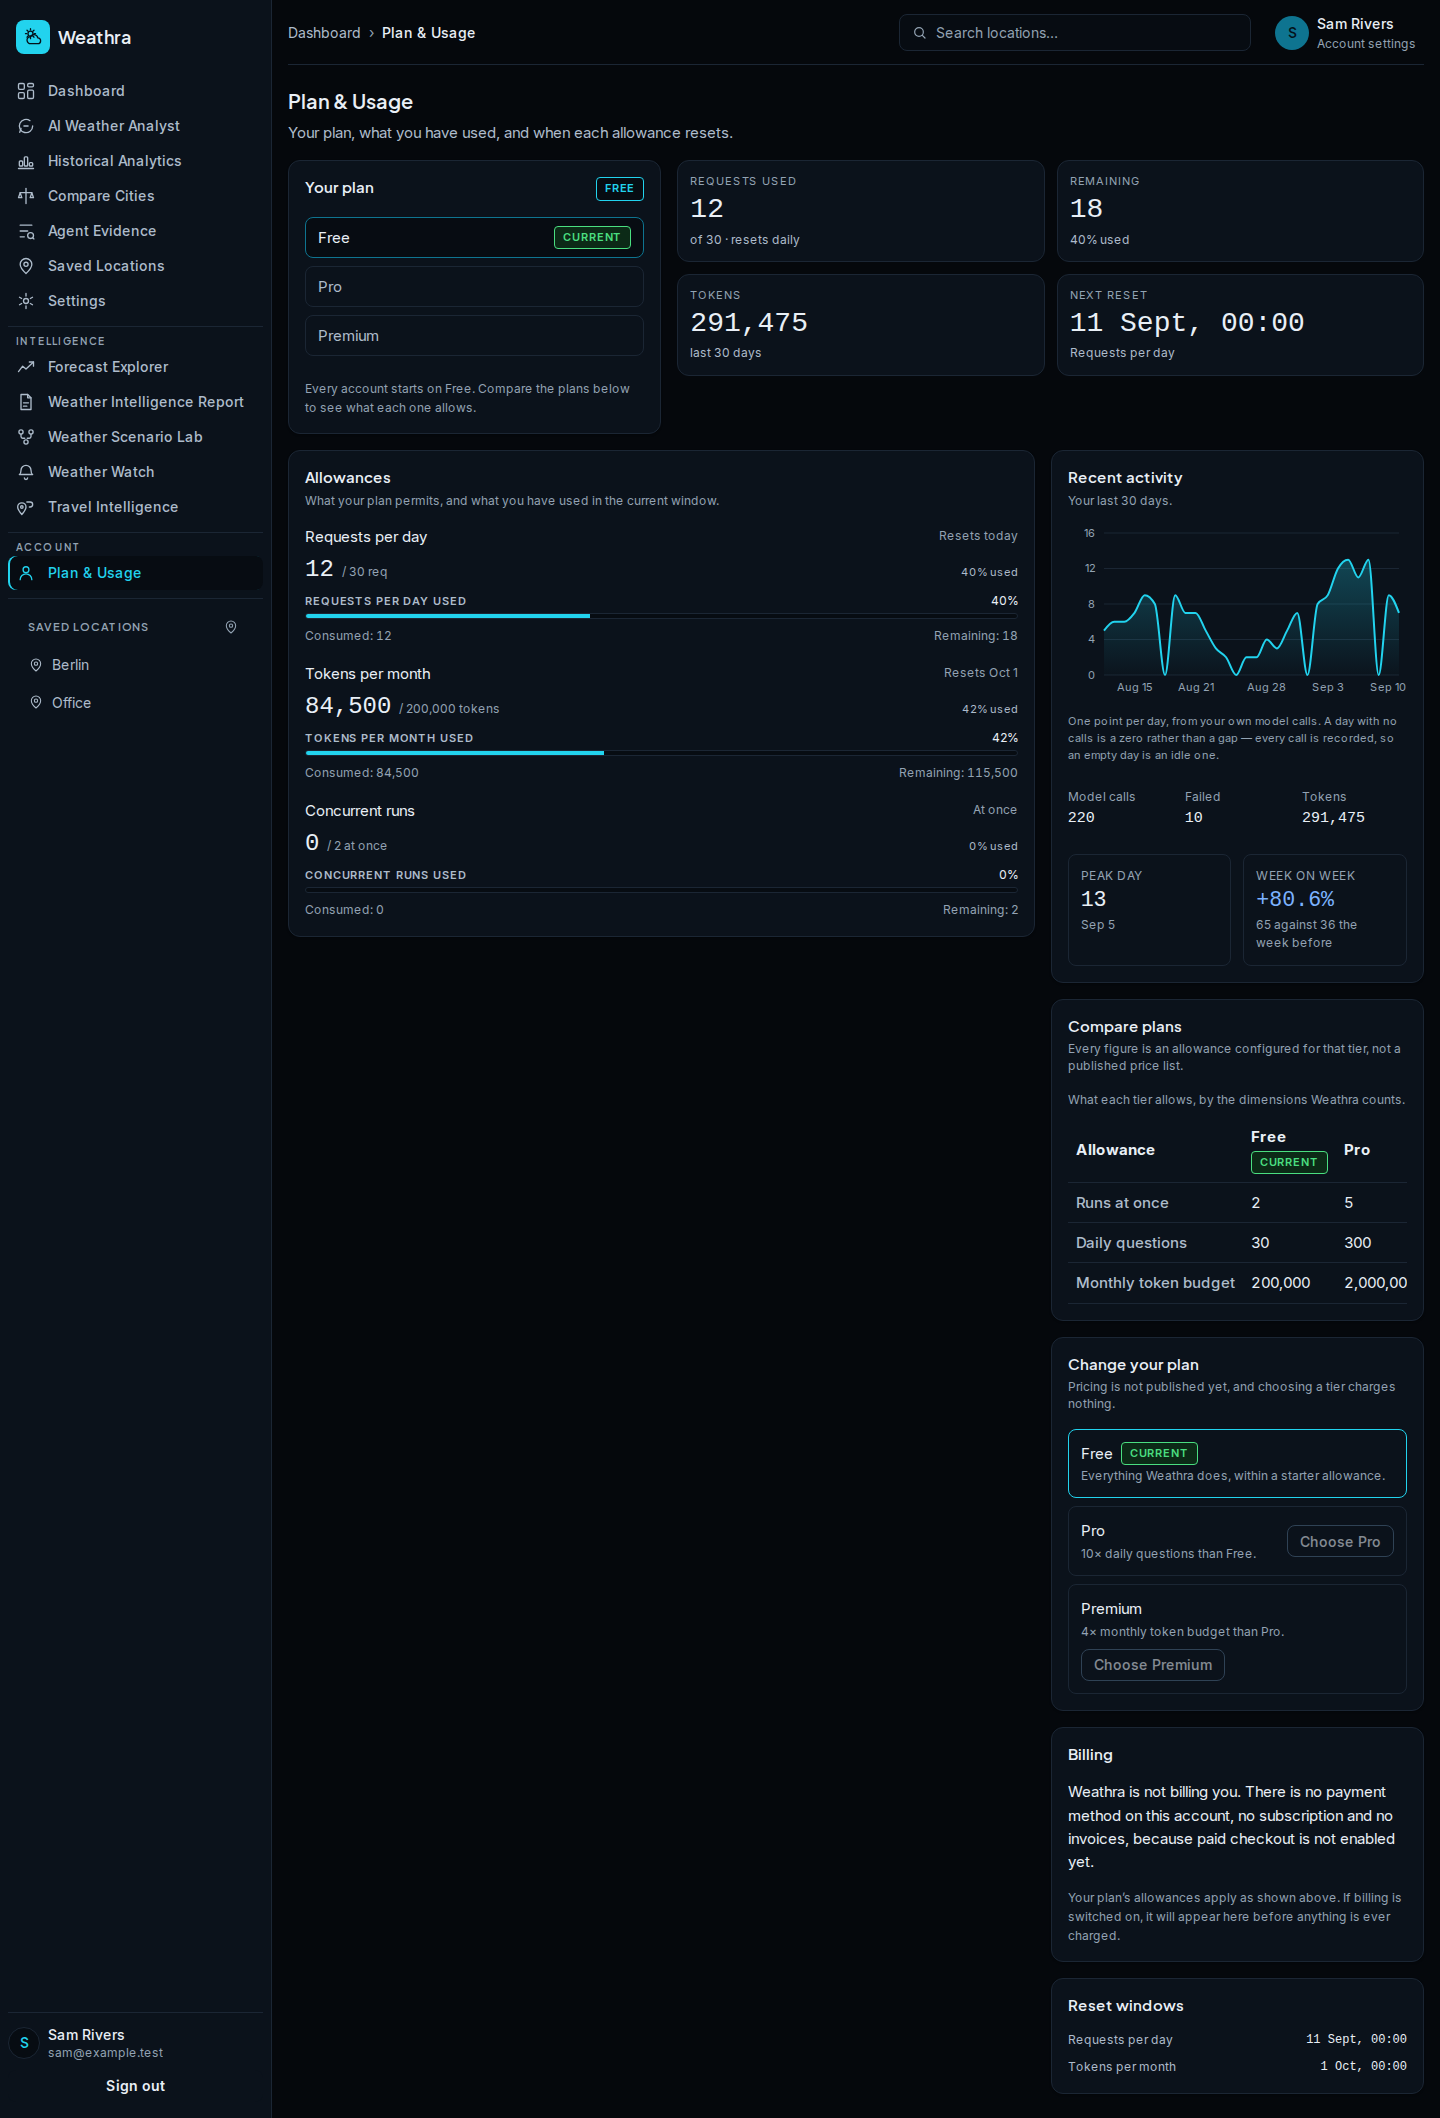
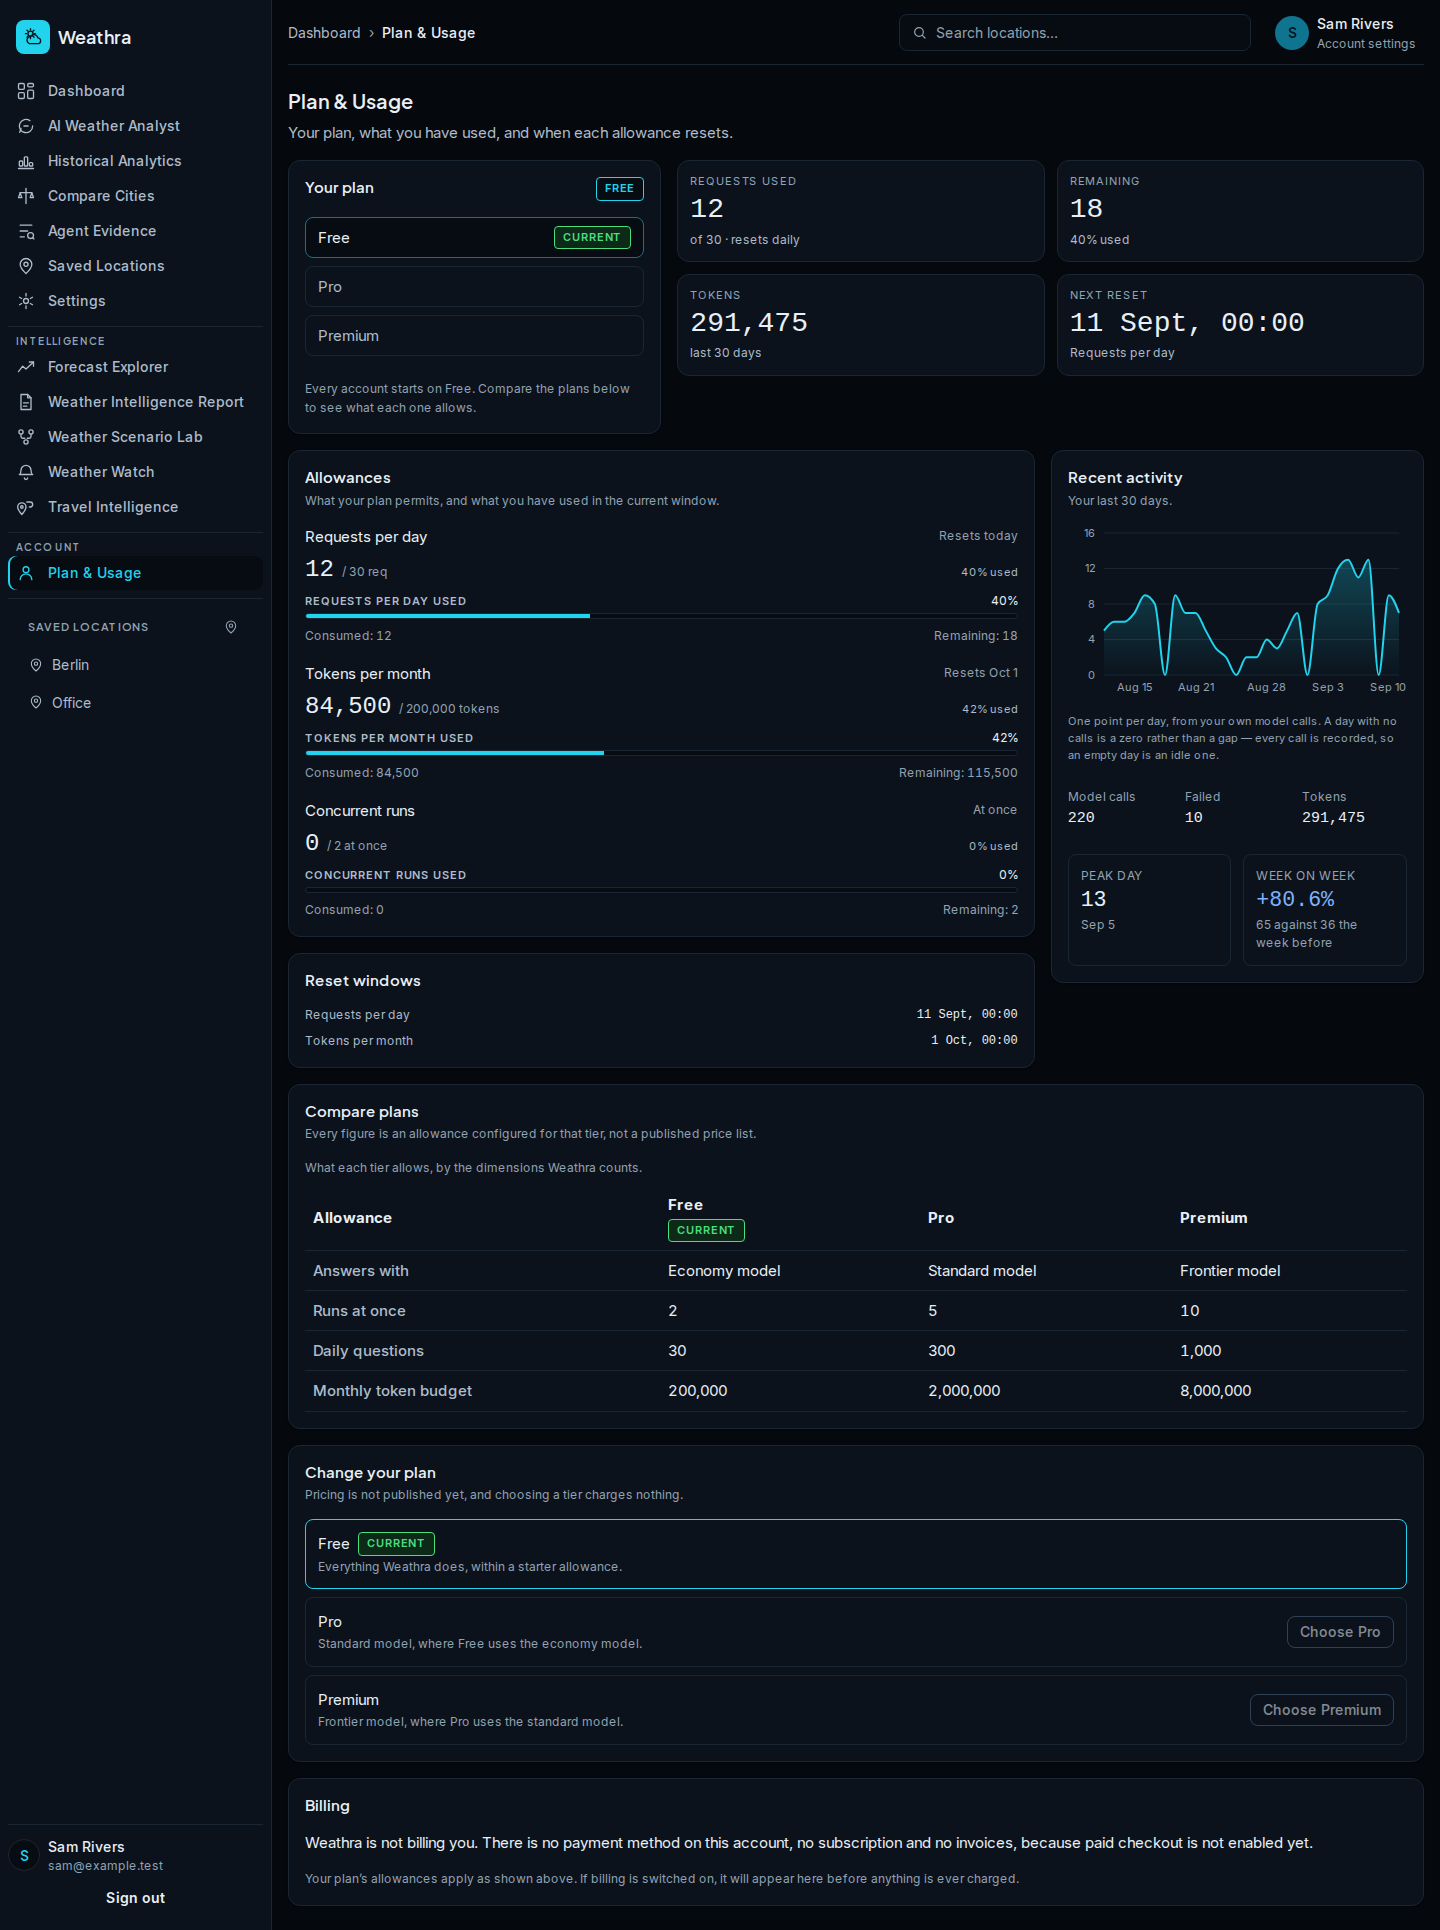
feat(plan): compare the tiers on the thing a bigger number cannot say
`/plans` now carries the capability tier and display name of the model each plan's synthesis policy
would actually resolve — plan → policy → first enabled catalog candidate, three rows deep in the
database, resolved by the backend rather than asserted by a screen. Synthesis rather than routing,
because synthesis is the call that writes the answer a person reads.

That is the difference between Free, Pro and Premium that allowances cannot express. The comparison
leads with it — "Answers with: Economy model / Standard model / Frontier model" — and each tier's
value line says it in words: "Standard model, where Free uses the economy model." Both are computed
from the rows, so they stay true when a policy is re-pointed.

Nothing is claimed that a row does not hold: a plan mapping no synthesis policy, or whose policy
names no *enabled* candidate, reports null and the row is omitted rather than guessed. A disabled
catalog entry is unavailable everywhere (`specs/model-catalog`), so naming it would describe a model
no call can reach.

Also: the reset windows moved under the allowances they describe. They sat in the right rail beneath
the activity chart, leaving roughly seven hundred pixels of empty left column at 1440 — visible in
the capture, invisible to every test.

diff --git a/weathra/frontend/components/plan/plan-usage.tsx b/weathra/frontend/components/plan/plan-usage.tsx
@@ -271,6 +271,29 @@ function Ready({ usage }: { usage: UsageResponse }): ReactNode {
           </CardBody>
         </Card>
 
+        {/*
+          Under the allowances it describes, in the column that had the room. It sat in the right
+          rail beneath the activity chart, which left roughly seven hundred pixels of empty left
+          column at 1440 — the capture is what showed it.
+        */}
+        <Card aria-labelledby="resets">
+          <CardHeader title="Reset windows" titleId="resets" />
+          <CardBody>
+            {resets.length === 0 ? (
+              <p>Nothing on your plan is counted over a window.</p>
+            ) : (
+              <ul className={styles.resets}>
+                {resets.map((reading) => (
+                  <li key={reading.dimension}>
+                    <span>{reading.label}</span>
+                    <span className={styles.resetAt}>{instant(reading.resetsAt)}</span>
+                  </li>
+                ))}
+              </ul>
+            )}
+          </CardBody>
+        </Card>
+
         <div className={styles.side}>
           <Card aria-labelledby="recent">
             <CardHeader
@@ -330,24 +353,6 @@ function Ready({ usage }: { usage: UsageResponse }): ReactNode {
                   </span>
                 </div>
               </div>
-            </CardBody>
-          </Card>
-
-          <Card aria-labelledby="resets">
-            <CardHeader title="Reset windows" titleId="resets" />
-            <CardBody>
-              {resets.length === 0 ? (
-                <p>Nothing on your plan is counted over a window.</p>
-              ) : (
-                <ul className={styles.resets}>
-                  {resets.map((reading) => (
-                    <li key={reading.dimension}>
-                      <span>{reading.label}</span>
-                      <span className={styles.resetAt}>{instant(reading.resetsAt)}</span>
-                    </li>
-                  ))}
-                </ul>
-              )}
             </CardBody>
           </Card>
         </div>

diff --git a/weathra/frontend/lib/plan/commerce.ts b/weathra/frontend/lib/plan/commerce.ts
@@ -89,6 +89,27 @@ export function pricingPublished(): boolean {
   return false;
 }
 
+/** What a capability tier is called on screen. The backend's own vocabulary, said for a reader. */
+const TIER_NAMES: Readonly<Record<string, string>> = {
+  economy: "Economy model",
+  standard: "Standard model",
+  frontier: "Frontier model",
+};
+
+/**
+ * The class of model a tier answers with, or null where the plan maps no synthesis policy.
+ *
+ * This is the difference between the tiers that is *not* a number, and until `/plans` carried it a
+ * comparison could only say "bigger allowances". It is three rows deep in the database — plan →
+ * policy → catalog entry — and the backend resolves it; nothing here asserts which model a plan
+ * gets.
+ */
+export function modelTierLabel(plan: PlanOfferView): string | null {
+  const tier = plan.model_tier;
+  if (!tier) return null;
+  return TIER_NAMES[tier] ?? `${tier.charAt(0).toUpperCase()}${tier.slice(1)} model`;
+}
+
 /**
  * A tier's one-line value proposition, **derived from its allowances** rather than written here.
  *
@@ -121,6 +142,14 @@ export function valueProposition(
     })
     .filter((entry): entry is { dimension: string; factor: number } => entry !== null)
     .sort((left, right) => right.factor - left.factor);
+
+  // The model comes first when it actually changes: which model answers is a bigger difference to a
+  // person than how many times they may ask, and it is the one a bigger number cannot express.
+  const tier = modelTierLabel(plan);
+  const beneath = modelTierLabel(below);
+  if (tier && beneath && tier !== beneath) {
+    return `${tier}, where ${below.display_name} uses the ${beneath.toLowerCase()}.`;
+  }
 
   const best = gains[0];
   if (!best) return `More headroom than ${below.display_name}.`;

diff --git a/weathra/frontend/components/plan/plan-usage.test.tsx b/weathra/frontend/components/plan/plan-usage.test.tsx
@@ -64,18 +64,21 @@ const TIERS = {
   plans: [
     {
       plan_code: "free",
+      model_tier: "economy",
       display_name: "Free",
       rank: 1,
       allowances: [{ dimension: "requests_per_day", window: "day", allowance: 30 }],
     },
     {
       plan_code: "pro",
+      model_tier: "standard",
       display_name: "Pro",
       rank: 2,
       allowances: [{ dimension: "requests_per_day", window: "day", allowance: 300 }],
     },
     {
       plan_code: "premium",
+      model_tier: "frontier",
       display_name: "Premium",
       rank: 3,
       allowances: [{ dimension: "requests_per_day", window: "day", allowance: 1000 }],
@@ -288,6 +291,10 @@ describe("comparing tiers, changing plan, and what billing may claim", () => {
     // Every column is a configured tier and every cell an allowance, so nothing here is a claim
     // about a capability no row supports.
     expect(within(table).getByText("Daily questions")).toBeInTheDocument();
+    // The difference a bigger number cannot express: which class of model answers.
+    expect(within(table).getByText("Answers with")).toBeInTheDocument();
+    expect(within(table).getByText("Economy model")).toBeInTheDocument();
+    expect(within(table).getByText("Frontier model")).toBeInTheDocument();
     expect(within(table).getByText("30")).toBeInTheDocument();
     expect(within(table).getByText("300")).toBeInTheDocument();
     expect(within(table).getByText("1,000")).toBeInTheDocument();

diff --git a/weathra/frontend/components/plan/comparison.tsx b/weathra/frontend/components/plan/comparison.tsx
@@ -30,6 +30,7 @@ import type { PlanAllowanceView, PlanOfferView, PlansResponse } from "@/lib/api/
 import {
   allowanceLabel,
   checkoutFor,
+  modelTierLabel,
   planActionLabel,
   pricingPublished,
   valueProposition,
@@ -101,6 +102,19 @@ export function PlanComparison({ currentPlan }: { readonly currentPlan: string |
                 </tr>
               </thead>
               <tbody>
+                {/*
+                  The row that is not a number. Which model answers is the difference between the
+                  tiers a bigger allowance cannot express, and it is three rows deep in the database
+                  — plan → policy → catalog entry — resolved by `/plans` rather than asserted here.
+                */}
+                {offered.some((plan) => plan.model_tier) ? (
+                  <tr>
+                    <th scope="row">Answers with</th>
+                    {offered.map((plan) => (
+                      <td key={plan.plan_code}>{modelTierLabel(plan) ?? "—"}</td>
+                    ))}
+                  </tr>
+                ) : null}
                 {dimensions.map((dimension) => {
                   const sample = offered
                     .flatMap((plan) => plan.allowances ?? [])

diff --git a/weathra/frontend/components/plan/plan.module.css b/weathra/frontend/components/plan/plan.module.css
@@ -160,11 +160,22 @@
 
 /* ------------------------------------------------------------- the two columns */
 
+/*
+ * Two tracks, and the left one now holds two cards stacked. `grid-auto-flow: row` with the side
+ * rail spanning both rows keeps the allowances and the reset windows in the wide column and the
+ * activity panel beside them, rather than leaving the left column short.
+ */
 .columns {
   display: grid;
   grid-template-columns: minmax(0, 2fr) minmax(260px, 1fr);
+  grid-template-rows: auto auto;
   gap: var(--space-4);
   align-items: start;
+}
+
+.columns > .side {
+  grid-column: 2;
+  grid-row: 1 / span 2;
 }
 
 .side {
